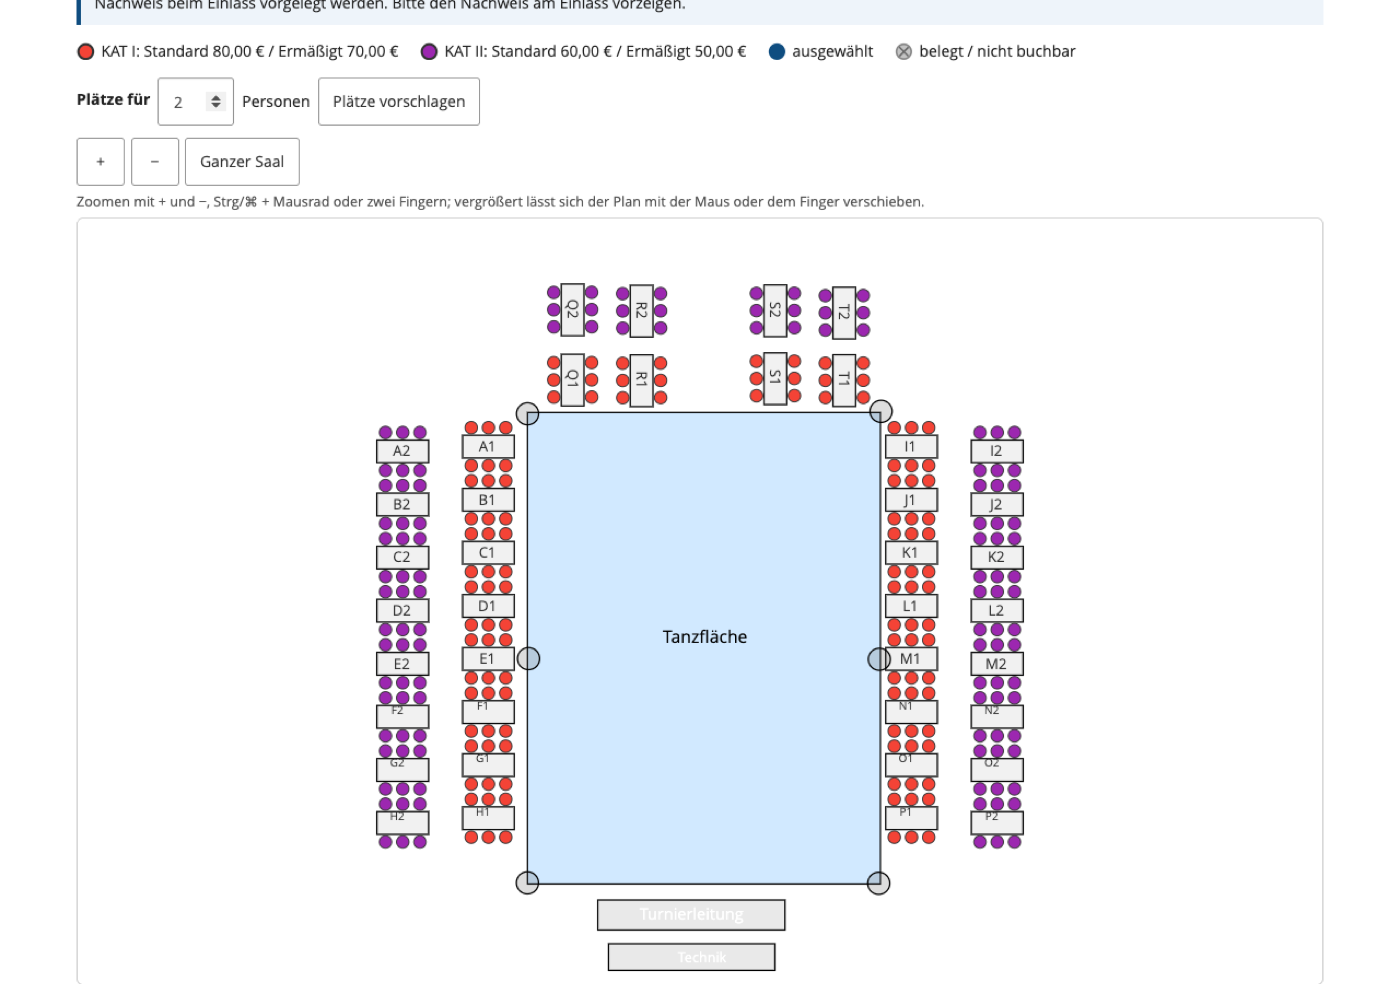
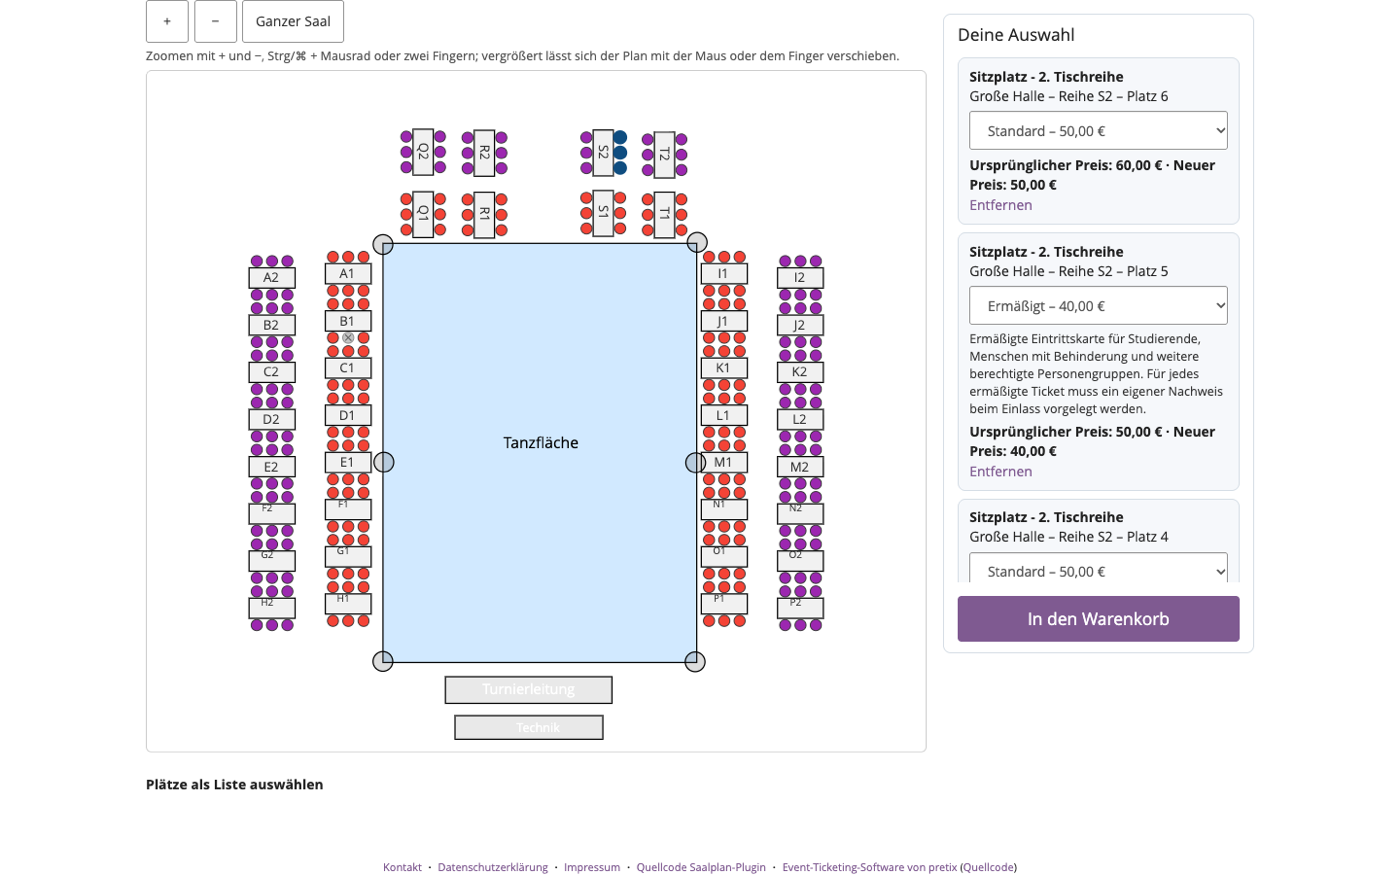
pretix-ceronne 1.7.0: Auswahl mit Warenkorb-Knopf rechts neben dem Plan, Platzvorschlag je Veranstaltung abschaltbar (Standard aus), Varianten-Hinweis über dem Plan entfernt

Changed region(s): [[0.0307, 0.0, 0.8907, 1.0], [0.0921, 0.8949, 0.2457, 0.9257]]

diff --git a/pretix-ceronne/pretix_ceronne/templates/pretix_ceronne/saalplan.html b/pretix-ceronne/pretix_ceronne/templates/pretix_ceronne/saalplan.html
@@ -22,14 +22,6 @@
     <p class="cs-hilfe"><strong>Für diese Veranstaltung sind keine Plätze mehr frei.</strong></p>
   {% endif %}
 
-  {% if hinweise %}
-    <div class="cs-varianten-hinweis" id="cs-varianten-hinweis">
-      {% for name, text in hinweise.items %}
-        <p><strong>{{ name }}:</strong> {{ text|linebreaksbr }}</p>
-      {% endfor %}
-    </div>
-  {% endif %}
-
   <ul class="cs-legende" aria-label="Legende">
     {% for k in daten.kategorien %}
       {% if k.preis %}
@@ -40,7 +32,7 @@
     <li><svg class="cs-punkt" viewBox="0 0 20 20" aria-hidden="true"><circle cx="10" cy="10" r="8" fill="#c4c4c4" stroke="#888" stroke-width="2"/><path d="M5 5l10 10m0-10l-10 10" stroke="#666" stroke-width="2"/></svg>belegt / nicht buchbar</li>
   </ul>
 
-  {% if frei and regeln.tischmodus != 'nur_tische' and not daten.gutschein_platz %}
+  {% if frei and regeln.vorschlag and regeln.tischmodus != 'nur_tische' and not daten.gutschein_platz %}
   <div class="cs-vorschlag cs-nur-js">
     <label for="cs-anzahl">Plätze für</label>
     <input type="number" id="cs-anzahl" min="1" max="20" value="2" class="form-control">
@@ -49,42 +41,51 @@
   </div>
   {% endif %}
 
-  <div class="cs-werkzeuge cs-nur-js">
-    <button type="button" class="btn btn-default cs-zoom" data-zoom="1.5" aria-label="Plan vergrößern">+</button>
-    <button type="button" class="btn btn-default cs-zoom" data-zoom="0.6667" aria-label="Plan verkleinern">−</button>
-    <button type="button" class="btn btn-default cs-zoom" data-zoom="0">Ganzer Saal</button>
-  </div>
-  <p class="cs-zoom-hinweis cs-nur-js">Zoomen mit + und −, Strg/⌘ + Mausrad oder zwei Fingern; vergrößert lässt sich der Plan mit der Maus oder dem Finger verschieben.</p>
-  <div class="cs-flaeche cs-nur-js" id="cs-flaeche"></div>
-  {{ daten|json_script:"cs-daten" }}
+  <div class="cs-layout">
+    <div class="cs-layout__plan">
+      <div class="cs-werkzeuge cs-nur-js">
+        <button type="button" class="btn btn-default cs-zoom" data-zoom="1.5" aria-label="Plan vergrößern">+</button>
+        <button type="button" class="btn btn-default cs-zoom" data-zoom="0.6667" aria-label="Plan verkleinern">−</button>
+        <button type="button" class="btn btn-default cs-zoom" data-zoom="0">Ganzer Saal</button>
+      </div>
+      <p class="cs-zoom-hinweis cs-nur-js">Zoomen mit + und −, Strg/⌘ + Mausrad oder zwei Fingern; vergrößert lässt sich der Plan mit der Maus oder dem Finger verschieben.</p>
+      <div class="cs-flaeche cs-nur-js" id="cs-flaeche"></div>
+      {{ daten|json_script:"cs-daten" }}
 
-  {% if frei %}
-  <details class="cs-liste" id="cs-liste">
-    <summary>Plätze als Liste auswählen</summary>
-    {% for tisch, plaetze in gruppen.items %}
-      <fieldset>
-        <legend>Tisch {{ tisch }}</legend>
-        {% if regeln.tischmodus != 'einzeln' %}
-          <button type="button" class="btn btn-link cs-nur-js cs-tisch-knopf" data-tisch="{{ tisch }}">Ganzen Tisch {{ tisch }} wählen ({{ plaetze|length }} Plätze)</button>
-        {% endif %}
-        {% for p in plaetze %}
-          {% for o in p.optionen %}
-            <label class="cs-option{% if not forloop.first %} cs-variante-zusatz{% endif %}">
-              <input type="checkbox" name="{{ o.name }}" value="{{ p.g }}" data-guid="{{ p.g }}" data-variante="{{ o.variante }}"{% if forloop.first and p.g == daten.gutschein_platz %} checked{% endif %}>
-              {{ o.text }}
-            </label>
-          {% endfor %}
+      {% if frei %}
+      <details class="cs-liste" id="cs-liste">
+        <summary>Plätze als Liste auswählen</summary>
+        {% for tisch, plaetze in gruppen.items %}
+          <fieldset>
+            <legend>Tisch {{ tisch }}</legend>
+            {% if regeln.tischmodus != 'einzeln' %}
+              <button type="button" class="btn btn-link cs-nur-js cs-tisch-knopf" data-tisch="{{ tisch }}">Ganzen Tisch {{ tisch }} wählen ({{ plaetze|length }} Plätze)</button>
+            {% endif %}
+            {% for p in plaetze %}
+              {% for o in p.optionen %}
+                <label class="cs-option{% if not forloop.first %} cs-variante-zusatz{% endif %}">
+                  <input type="checkbox" name="{{ o.name }}" value="{{ p.g }}" data-guid="{{ p.g }}" data-variante="{{ o.variante }}"{% if forloop.first and p.g == daten.gutschein_platz %} checked{% endif %}>
+                  {{ o.text }}
+                </label>
+              {% endfor %}
+            {% endfor %}
+          </fieldset>
         {% endfor %}
-      </fieldset>
-    {% endfor %}
-  </details>
+      </details>
+      {% endif %}
+    </div>
 
-  <div class="cs-meldung" role="alert" hidden></div>
-  <div class="cs-auswahl" aria-live="polite">
-    <p class="cs-auswahl__leer">Noch kein Platz ausgewählt.</p>
-    <ul class="cs-auswahl__liste"></ul>
+    {% if frei %}
+    <aside class="cs-layout__auswahl" aria-labelledby="cs-auswahl-titel">
+      <h4 id="cs-auswahl-titel">Deine Auswahl</h4>
+      <div class="cs-meldung" role="alert" hidden></div>
+      <div class="cs-auswahl" aria-live="polite">
+        <p class="cs-auswahl__leer">Noch kein Platz ausgewählt.</p>
+        <ul class="cs-auswahl__liste"></ul>
+      </div>
+      <button type="submit" class="btn btn-primary btn-lg btn-block cs-absenden">In den Warenkorb</button>
+    </aside>
+    {% endif %}
   </div>
-  <button type="submit" class="btn btn-primary btn-lg cs-absenden">In den Warenkorb</button>
-  {% endif %}
 </section>
 <script src="{% static 'pretix_ceronne/saalplan.js' %}" defer></script>

diff --git a/pretix-ceronne/pretix_ceronne/static/pretix_ceronne/saalplan.css b/pretix-ceronne/pretix_ceronne/static/pretix_ceronne/saalplan.css
@@ -59,5 +59,14 @@
 .cs-posten__preis { font-weight: 600; margin-top: .3em; }
 .cs-posten .cs-entfernen { padding-left: 0; }
 
-.cs-varianten-hinweis { background: #eef4fa; border-left: 4px solid #0f4d80; margin: .6em 0 1em; padding: .5em .9em; }
-.cs-varianten-hinweis p { margin: .2em 0; }
+
+
+/* Plan links, „Deine Auswahl“ mit Warenkorb-Knopf rechts daneben (läuft beim Scrollen mit); schmal untereinander */
+.cs-layout { display: grid; gap: 1.2em; grid-template-columns: minmax(0, 1fr); }
+.cs-layout__auswahl { align-self: start; background: #fff; border: 1px solid #d5dde5; border-radius: 8px; padding: .8em 1em; }
+.cs-layout__auswahl h4 { margin-top: 0; }
+.cs-layout__auswahl .cs-auswahl__liste { grid-template-columns: minmax(0, 1fr); max-height: 60vh; overflow-y: auto; }
+@media (min-width: 992px) {
+  .cs-layout { grid-template-columns: minmax(0, 1fr) 320px; }
+  .cs-layout__auswahl { position: sticky; top: 1em; }
+}

diff --git a/pretix-ceronne/pretix_ceronne/templates/pretix_ceronne/control_saalplan.html b/pretix-ceronne/pretix_ceronne/templates/pretix_ceronne/control_saalplan.html
@@ -80,6 +80,8 @@
           Keine Einzellücken: Zwischen zwei belegten Plätzen darf kein einzelner Platz frei bleiben</label></div>
         <div class="checkbox"><label><input type="checkbox" name="restplatz"{% if regeln.restplatz %} checked{% endif %}>
           Kein einzelner Restplatz: An einem Tisch darf nicht genau ein Platz frei bleiben</label></div>
+        <div class="checkbox"><label><input type="checkbox" name="vorschlag"{% if regeln.vorschlag %} checked{% endif %}>
+          „Plätze vorschlagen“ im Shop anbieten (Anzahl Personen eingeben → passende Plätze nebeneinander)</label></div>
         <p class="help-block">Die Regeln werden im Shop sofort angezeigt und vor der Kasse noch einmal geprüft.</p>
       </div>
     </div>

diff --git a/pretix-ceronne/pretix_ceronne/signals.py b/pretix-ceronne/pretix_ceronne/signals.py
@@ -83,14 +83,7 @@ def saalplan_im_shop(sender, request, subevent=None, voucher=None, **kwargs):
                 for v in vs
             ] if vs else [{'name': f'seat_{p["i"]}', 'text': p['l'], 'variante': ''}]
             gruppen.setdefault(p['t'], []).append(p)
-    # Hinweise zu Varianten mit Beschreibung (z. B. wer ermäßigte Tickets nutzen darf)
-    hinweise = {}
-    for vs in daten['varianten'].values():
-        for v in vs:
-            if v.get('beschreibung'):
-                hinweise.setdefault(v['name'], v['beschreibung'])
     return get_template('pretix_ceronne/saalplan.html').render({
-        'hinweise': hinweise,
         'daten': daten,
         'gruppen': gruppen,
         'frei': sum(1 for p in daten['plaetze'] if p['s'] == 'frei'),

diff --git a/pretix-ceronne/pretix_ceronne/daten.py b/pretix-ceronne/pretix_ceronne/daten.py
@@ -186,7 +186,7 @@ def saalplan_daten(event, request=None, voucher=None, admin=False, mit_namen=Tru
         'varianten': {str(k): v for k, v in produkt_varianten.items() if v},
         'produkte': produkt_infos,
         # Gutschein mit festem Platz: keine Lücken-/Tischregeln, der Platz ist vorgegeben
-        'regeln': {'tischmodus': 'einzeln', 'luecken': False, 'restplatz': False} if gutschein_platz else einstellungen(event),
+        'regeln': {'tischmodus': 'einzeln', 'luecken': False, 'restplatz': False, 'vorschlag': False} if gutschein_platz else einstellungen(event),
         'gutschein_platz': gutschein_platz,
         'modus': 'admin' if admin else 'shop',
     }

diff --git a/pretix-ceronne/pretix_ceronne/regeln.py b/pretix-ceronne/pretix_ceronne/regeln.py
@@ -20,6 +20,8 @@ def einstellungen(event):
         'tischmodus': event.settings.get('ceronne_tischmodus', default='beides'),
         'luecken': event.settings.get('ceronne_luecken', as_type=bool, default=True),
         'restplatz': event.settings.get('ceronne_restplatz', as_type=bool, default=False),
+        # „Plätze vorschlagen“ (Anzahl Personen → passende Plätze) – standardmäßig aus
+        'vorschlag': event.settings.get('ceronne_vorschlag', as_type=bool, default=False),
     }
 
 

diff --git a/pretix-ceronne/pretix_ceronne/views.py b/pretix-ceronne/pretix_ceronne/views.py
@@ -165,6 +165,7 @@ class SaalplanView(EventPermissionRequiredMixin, TemplateView):
         s.ceronne_tischmodus = modus if modus in dict(TISCHMODI) else 'beides'
         s.ceronne_luecken = self.request.POST.get('luecken') == 'on'
         s.ceronne_restplatz = self.request.POST.get('restplatz') == 'on'
+        s.ceronne_vorschlag = self.request.POST.get('vorschlag') == 'on'
 
     def _entfernen(self):
         event = self.request.event

diff --git a/pretix-ceronne/pretix_ceronne/__init__.py b/pretix-ceronne/pretix_ceronne/__init__.py
@@ -1,3 +1,3 @@
 # SPDX-License-Identifier: AGPL-3.0-or-later
 # Copyright (C) 2026 Club Céronne im ETV Hamburg e.V.
-__version__ = "1.6.0"
+__version__ = "1.7.0"

diff --git a/pretix-ceronne/README.md b/pretix-ceronne/README.md
@@ -16,10 +16,12 @@ diese Oberflächen liefert das Plugin.
 - **Barrierefrei:** jeder Platz ist für Screenreader ein Kontrollkästchen mit Platz, Kategorie und Preis;
   geprüft mit axe-core (WCAG 2.2 AA) ohne Befund
 - **Ganze Tische** per Klick auf das Tischschild
-- **Plätze vorschlagen:** Anzahl Personen eingeben, das Plugin wählt passende Plätze nebeneinander
-- **Varianten** je Platz, z. B. „Standard 80 € / Ermäßigt 70 €“. Die Beschreibung der Variante (z. B. wer ermäßigte
-  Tickets nutzen darf) steht als Hinweis über dem Plan und beim gewählten Platz
-- Gewählte Plätze erscheinen wie ein Ticket: Produkt, Platz, Ticketart, Beschreibung, Preis – mit Gutschein
+- **Plätze vorschlagen** (je Veranstaltung einschaltbar, standardmäßig aus): Anzahl Personen eingeben, das Plugin
+  wählt passende Plätze nebeneinander
+- **Varianten** je Platz, z. B. „Standard 80 € / Ermäßigt 70 €“; die Beschreibung der Variante (z. B. wer ermäßigte
+  Tickets nutzen darf) erscheint beim gewählten Platz
+- **„Deine Auswahl“ rechts neben dem Plan** mit dem Knopf „In den Warenkorb“ (läuft beim Scrollen mit; auf dem Handy
+  unter dem Plan). Gewählte Plätze erscheinen wie ein Ticket: Produkt, Platz, Ticketart, Beschreibung, Preis – mit Gutschein
   „Ursprünglicher Preis … · Neuer Preis …“
 
   ![Auswahl mit Varianten und Gutschein](../docs/shop-auswahl.png)
